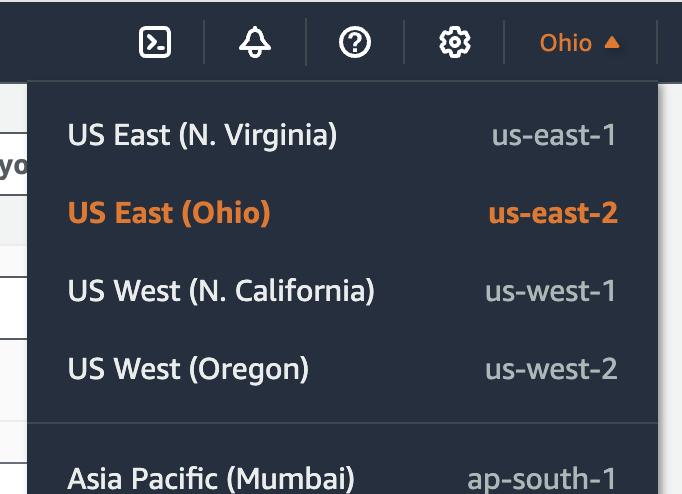
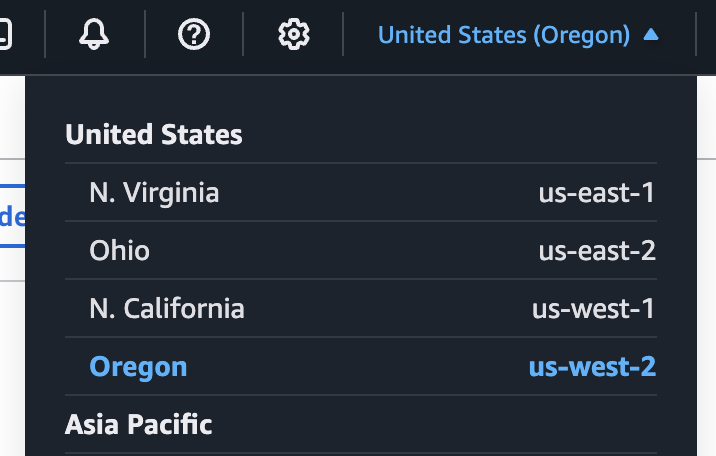
fix: change us-east-2 to us-west-2

diff --git a/cloud_readme.md b/cloud_readme.md
@@ -7,7 +7,7 @@ For performance testing, you will need to run this assignment on a VM instance o
 
 ## Creating a VM ##
 
-1. Log in to the [AWS EC2 dashboard](https://us-east-2.console.aws.amazon.com/console/home?region=us-east-2). On the top right of the page, make sure you are on the `us-east-2` region.
+1. Log in to the [AWS EC2 dashboard](https://us-west-2.console.aws.amazon.com/console/home?region=us-west-2). On the top right of the page, make sure you are on the `us-west-2` region.
 <p align="center">
   <img src="handout/switch-region.png" alt="Switch region" width="25%">
 </p>
